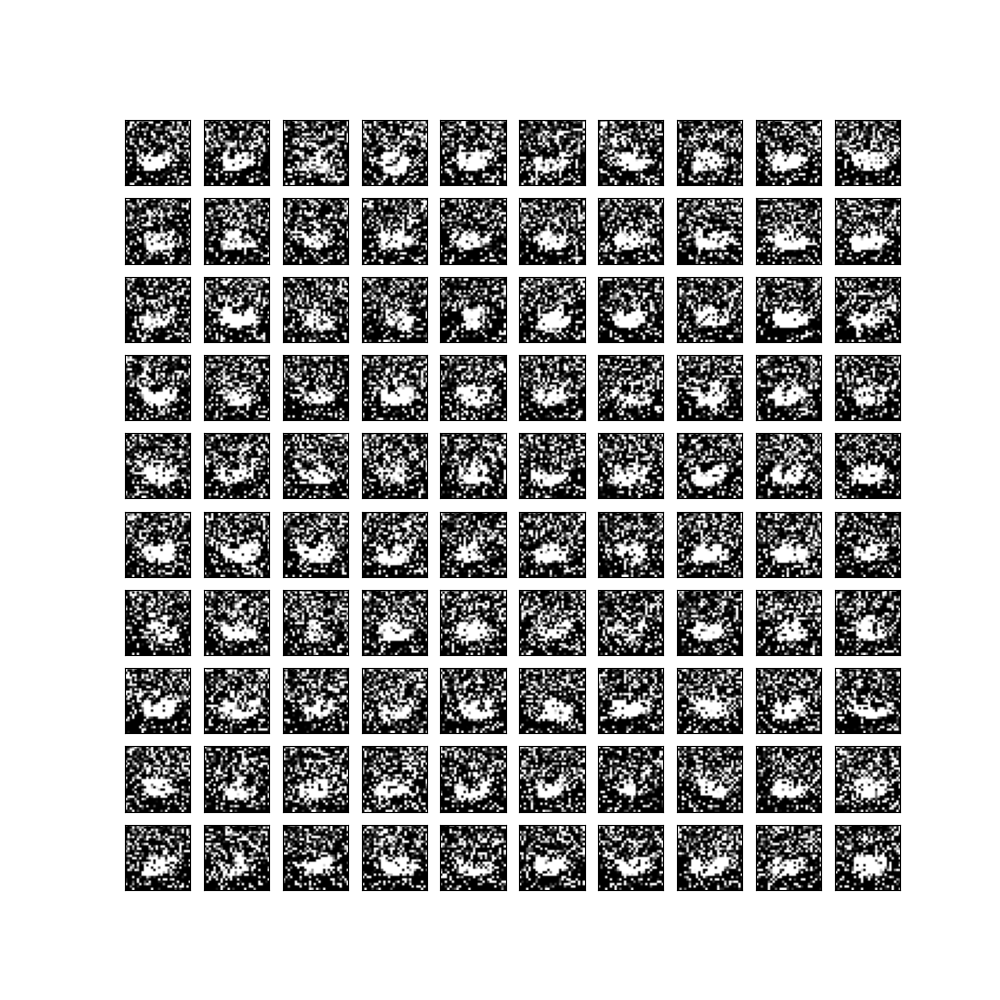
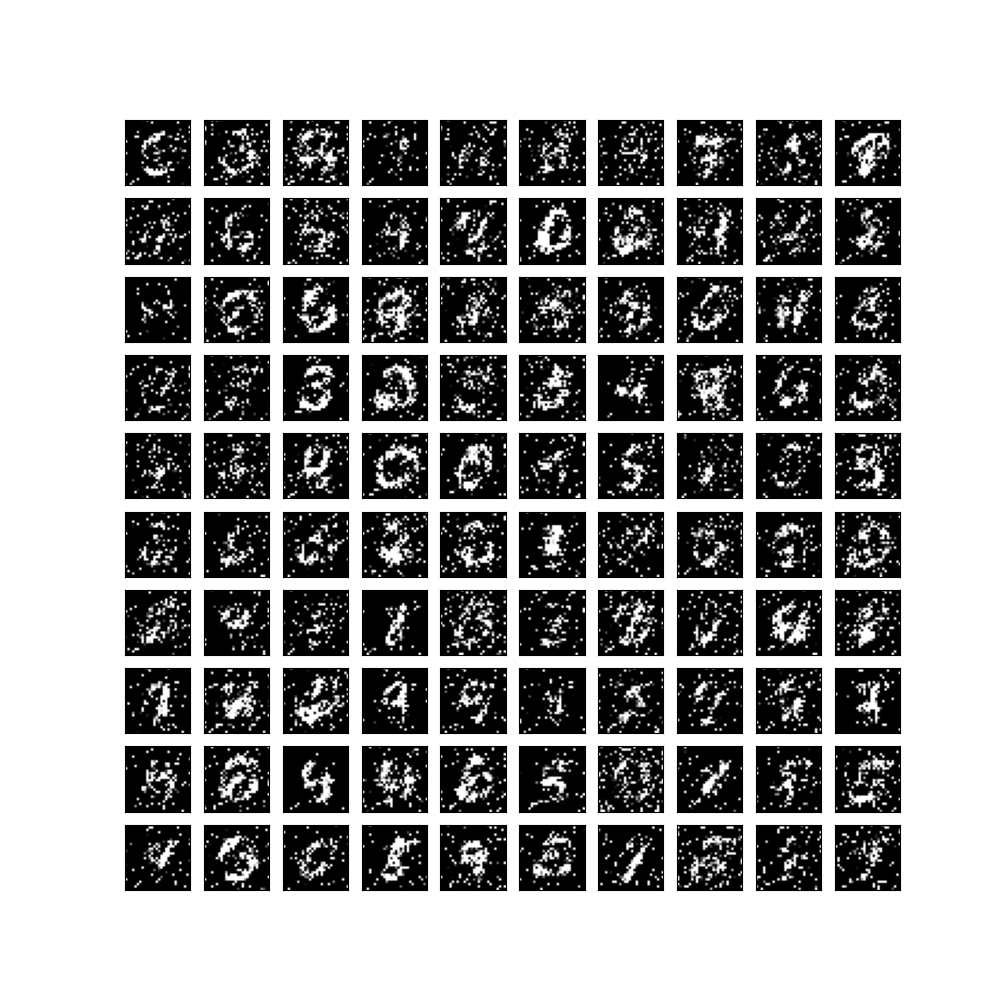
FIX

Changed region(s): [[0.124, 0.124, 0.899, 0.899]]

diff --git a/nice.py b/nice.py
@@ -1,8 +1,9 @@
 import torch
 import torch.nn as nn
 import numpy as np
-from keras.datasets.mnist import load_data
-from torch.utils.data import DataLoader
+from torch.utils.data import DataLoader, TensorDataset
+from torchvision.datasets import MNIST
+from torchvision import transforms
 from tqdm import tqdm
 import matplotlib.pyplot as plt
 
@@ -12,13 +13,6 @@ from torch.distributions.transforms import SigmoidTransform
 from torch.distributions.transforms import AffineTransform
 
 torch.manual_seed(0)
-
-# load (and normalize) mnist dataset
-(trainX, trainY), (testX, testy) = load_data()
-trainX = (np.float32(trainX) + torch.rand(trainX.shape).numpy()) / 255.
-trainX = trainX.clip(0, 1)
-trainX = torch.tensor(trainX.reshape(-1, 28 * 28))
-
 
 class StandardLogisticDistribution:
 
@@ -81,11 +75,11 @@ class NICE(nn.Module):
 def training(normalizing_flow, optimizer, dataloader, distribution, logistic_distribution, nb_epochs=1500, device='cpu'):
     training_loss = []
     for epoch in tqdm(range(nb_epochs)):
-
-        for batch in dataloader:
-            z, log_jacobian = normalizing_flow(batch.to(device))
-            log_likelihood = distribution.log_pdf(z) + log_jacobian
-            loss = -log_likelihood.sum()
+        for batch_idx, (batch, _) in enumerate(dataloader):
+            batch = batch.view(batch.size(0), -1).to(device)  # Flatten and move to the correct device
+            z, log_jacobian = normalizing_flow(batch)
+            log_likelihood = logistic_distribution.log_pdf(z) + log_jacobian
+            loss = -log_likelihood.sum()  # Calculate mean loss over batch
 
             optimizer.zero_grad()
             loss.backward()
@@ -113,12 +107,21 @@ def main():
     device = 'cpu'
     normalizing_flow = NICE().to(device)
     logistic_distribution = StandardLogisticDistribution(device=device)
-    x = torch.randn(10, 28 * 28, device=device)
-    assert torch.allclose(normalizing_flow.invert(normalizing_flow(x)[0]), x, rtol=1e-04, atol=1e-06)
+    
+    # MNIST Data loading with torchvision
+    transform = transforms.Compose([
+        transforms.ToTensor(),
+        transforms.Normalize((0.5,), (0.5,))  # Normalize images
+    ])
+    
+    train_dataset = MNIST(root='./data', train=True, download=True, transform=transform)
+    train_loader = DataLoader(train_dataset, batch_size=32, shuffle=True)
+    
     optimizer = torch.optim.Adam(normalizing_flow.parameters(), lr=0.0002, weight_decay=0.9)
-    dataloader = DataLoader(trainX, batch_size=32, shuffle=True)
-    training_loss = training(normalizing_flow, optimizer, dataloader, logistic_distribution, nb_epochs=500,
+    
+    training_loss = training(normalizing_flow, optimizer, train_loader, logistic_distribution, nb_epochs=500,
                              device=device, logistic_distribution=logistic_distribution)
+                             
 
     nb_data = 10
     fig, axs = plt.subplots(nb_data, nb_data, figsize=(10, 10))
